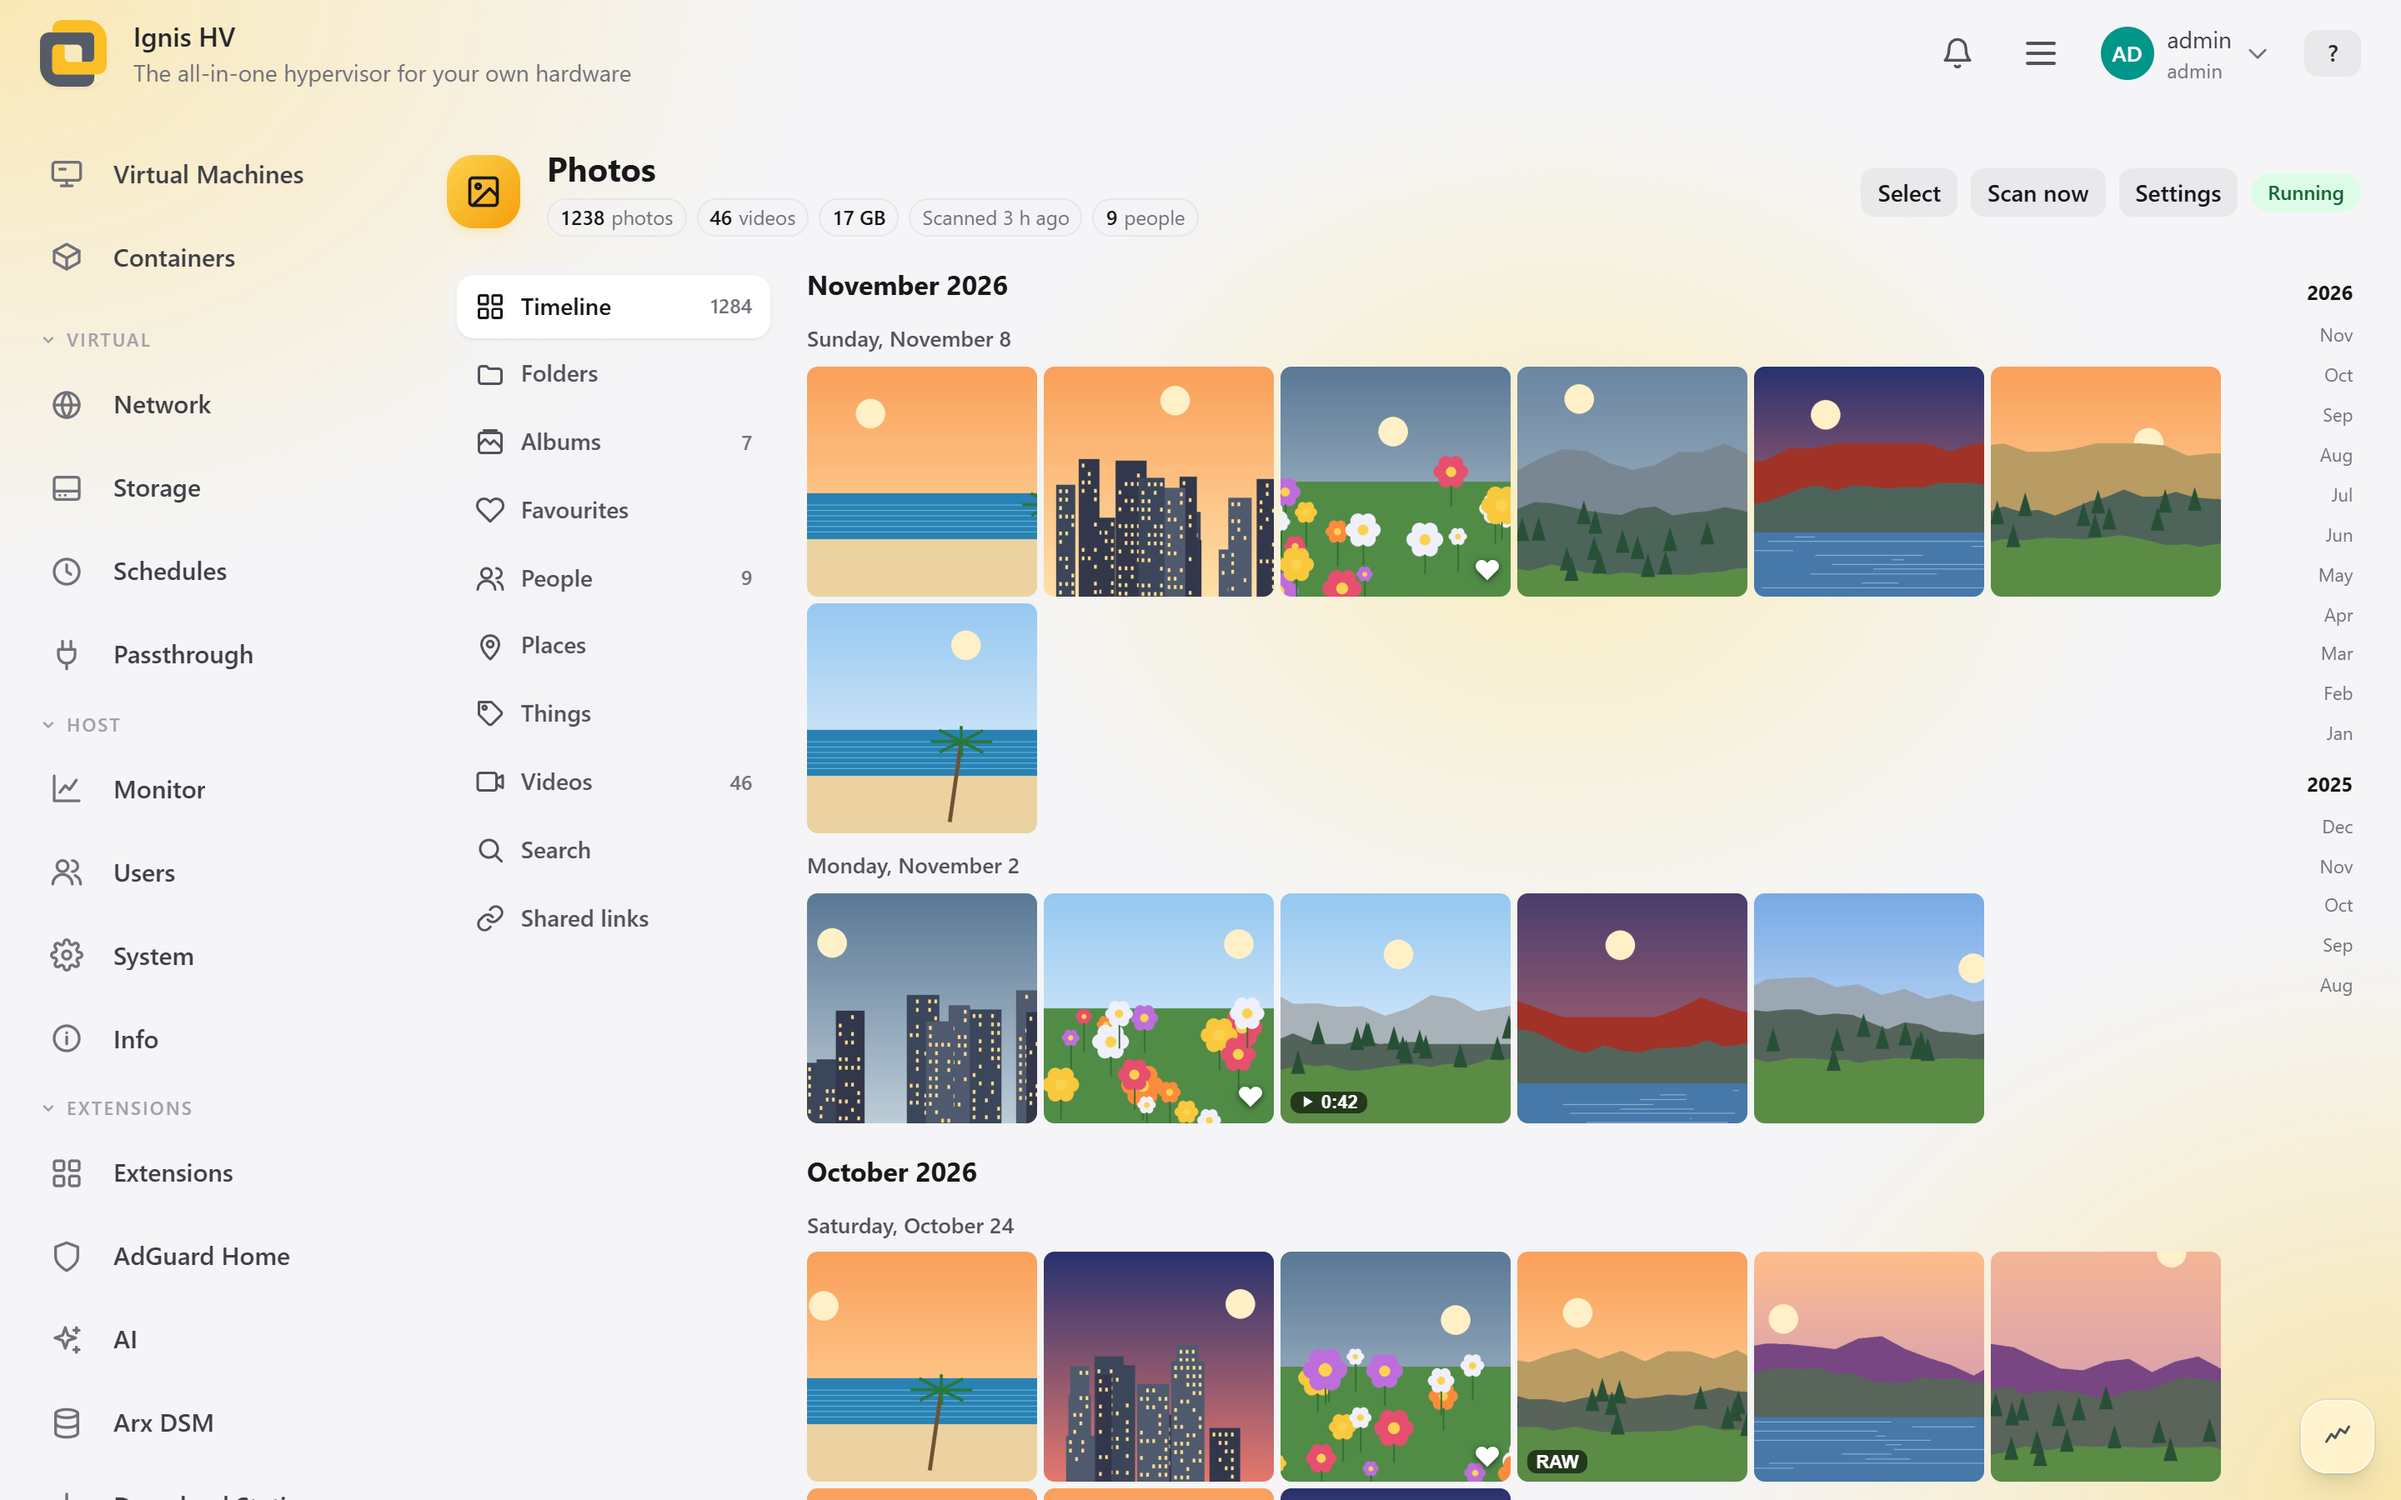
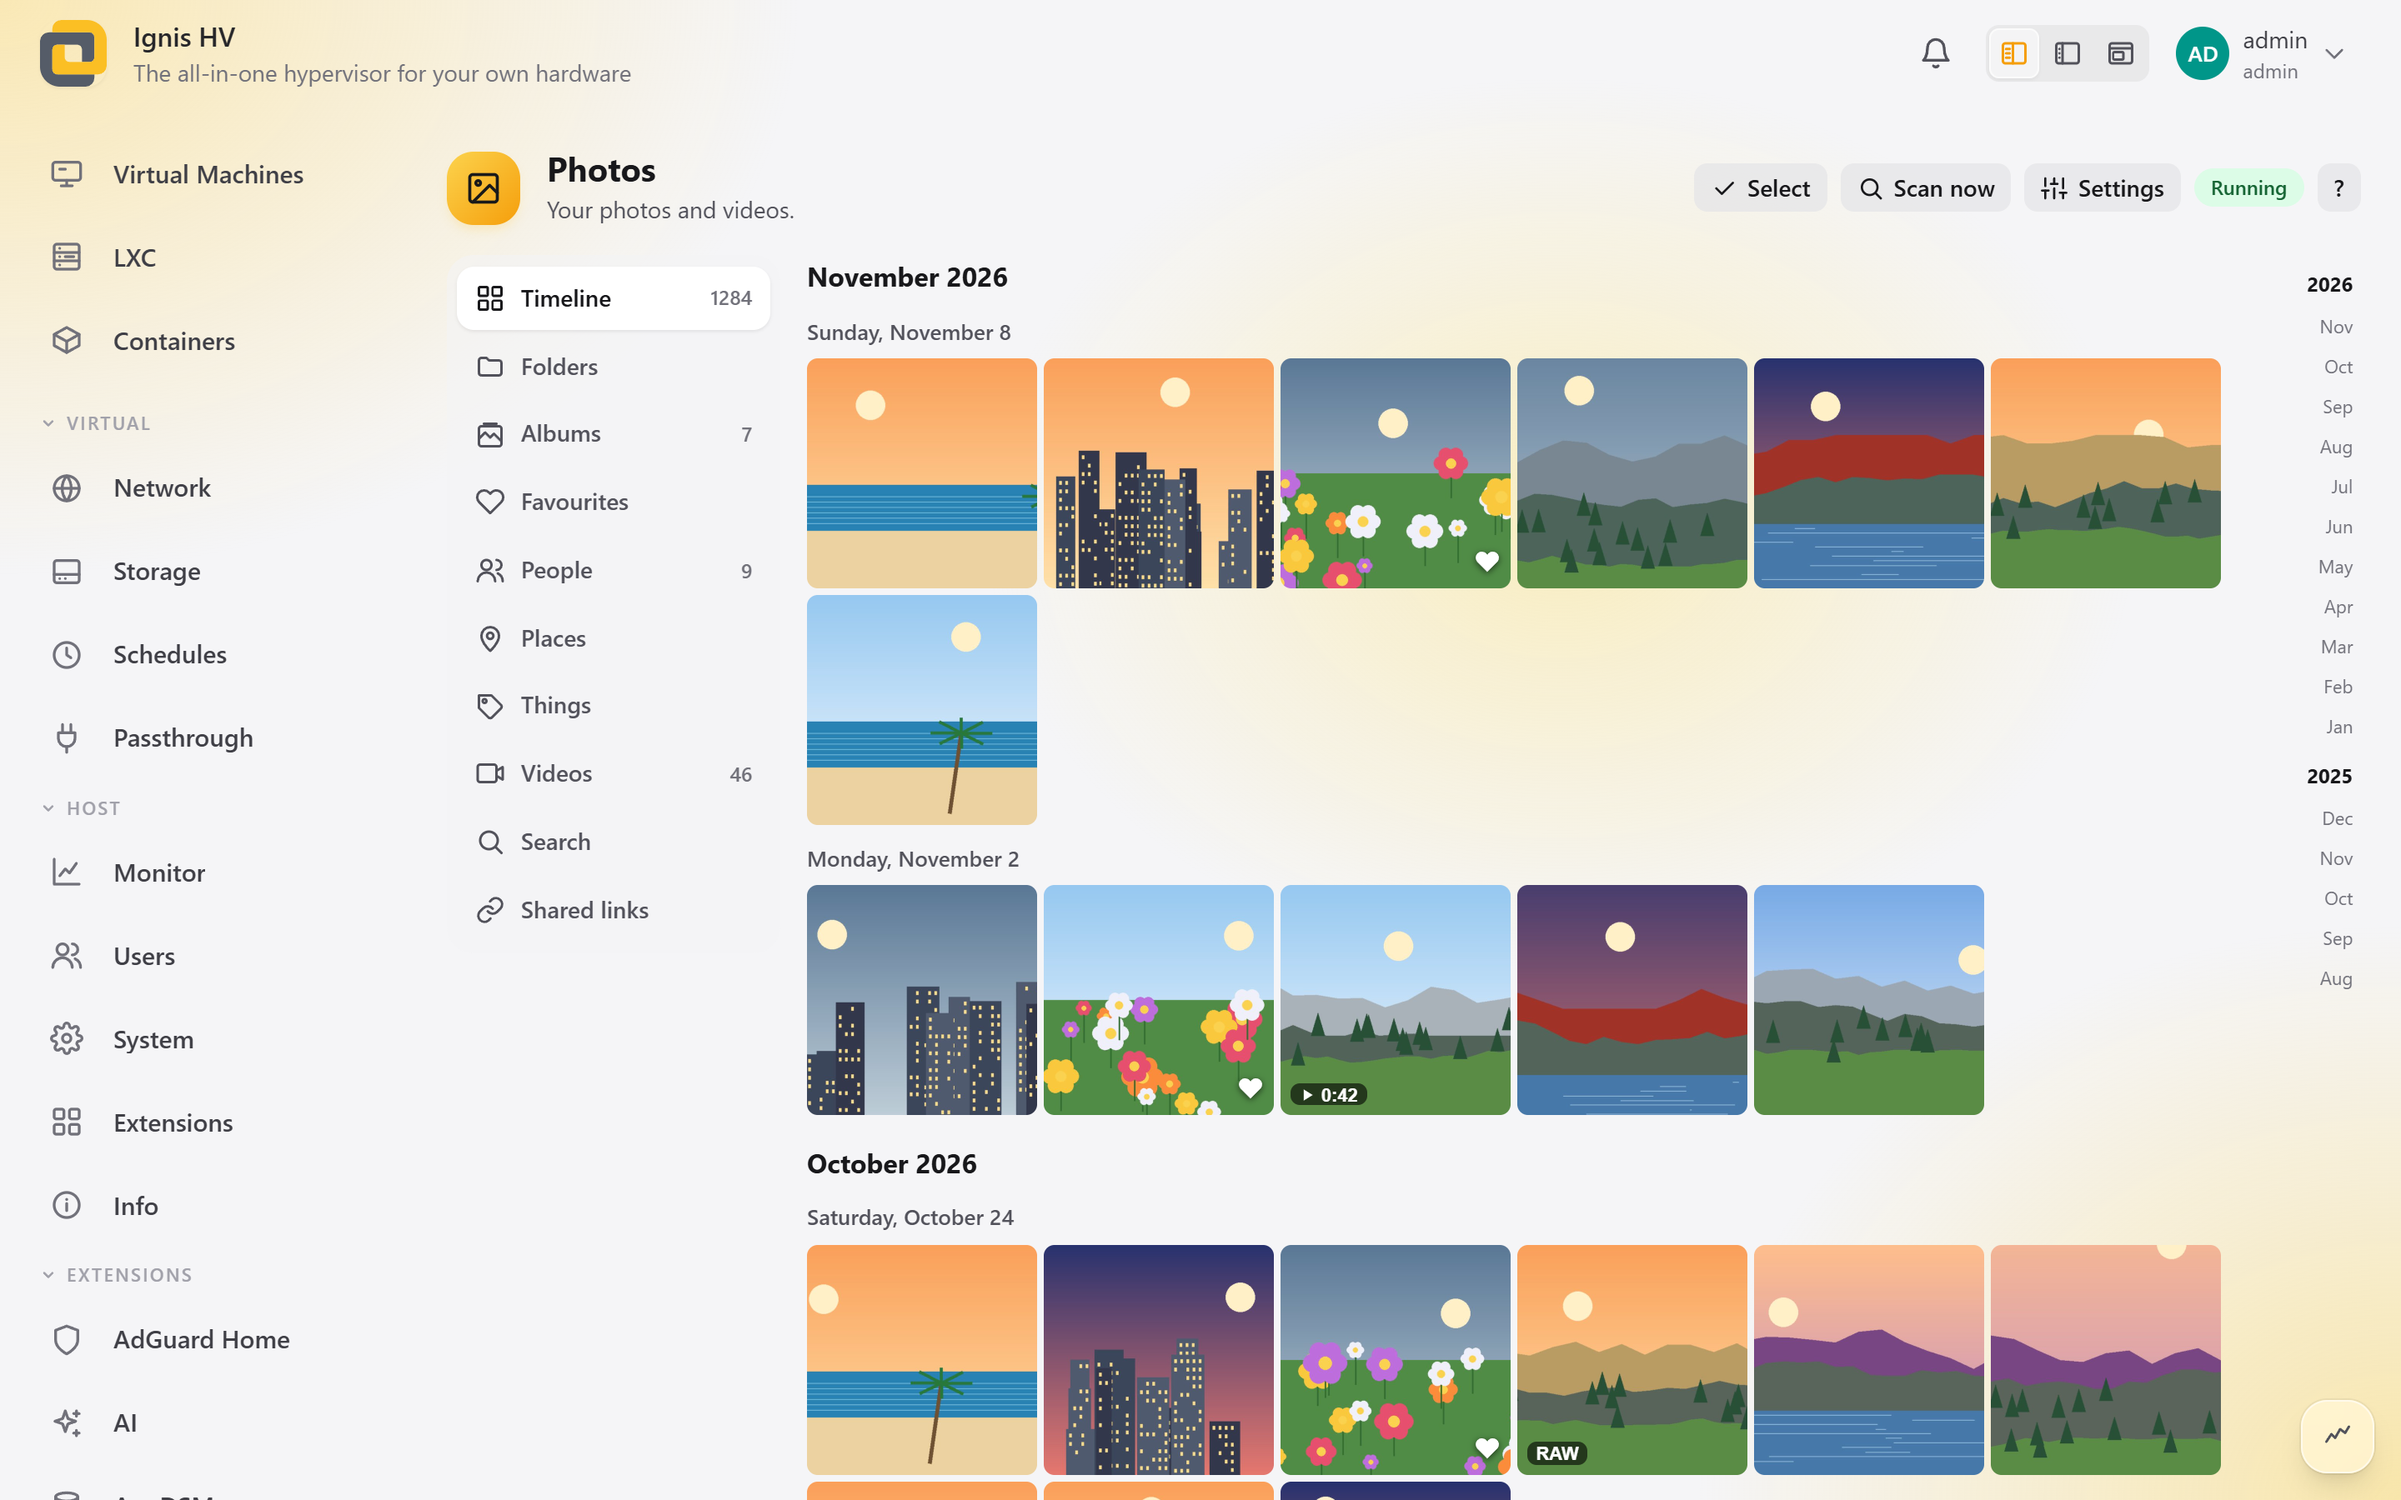
readme: the current interface, and what changed on 2026-11-18
New screenshots of Virtual Machines, Monitor, History, the machine
editor, Containers, Extensions and the desktop, and of Photos, Video
Station, Game Servers, Web Station, its DNS tab, Mail Server and the Web
Browser: buttons that say what they do, switches for settings, the
Monitor's auto-refresh, the new wallpapers.

The text: the Web Browser's tabs and toolbar, the upload size you
choose, the CPU page's governor, turbo and clock limits, wallpapers and
the short confirmation at the bottom of the screen, and that Apply asks
once more and the page reloads by itself once Ignis is back.

diff --git a/README.md b/README.md
@@ -52,7 +52,7 @@ Ignis turns a PC or server into a small, dedicated host for virtual machines, co
 
 * **Disks your way**: the system on one disk or a mirror, your data on one disk or software RAID. Add more disks later as extra volumes
 * **Storage Health**: see disk errors, run disk tests, check your data for hidden damage once a month, and let idle disks spin down
-* **Monitor and History**: what the host and every machine are doing right now, and over the last hour, day, week or month
+* **Monitor and History**: what the host and every machine are doing right now, and over the last hour, day, week or month. Live readings refresh every few seconds, and you can switch that off
 * **Several hosts as one**: link your Ignis hosts and run their machines from one interface. A machine can have a standby copy on a second host, ready if the first one fails
 * **For your smart home**: a read-only interface for Home Assistant, Prometheus and similar apps
 
@@ -87,7 +87,7 @@ Add apps from the **Extensions** tab. Install only the ones you need; each one i
 | **SAN Manager** | Offers storage to other computers over iSCSI |
 | **Game Servers** | Runs servers for Minecraft, Valheim, Factorio and about 145 more games, with a console, backups and timetables. Requires Docker |
 | **AI** | Runs language models on your own GPU, beside online services such as OpenAI, Anthropic and Gemini, all in one chat |
-| **Web Browser** | A browser that runs on Ignis and shows inside the page. Open your router, cameras and other devices on your home network from anywhere, look something up while you work, and save downloads straight to a shared folder. You choose whether it may reach the internet, your home network or both |
+| **Web Browser** | A browser that runs on Ignis and shows inside the page, with tabs and a toolbar like the browser you know. Open your router, cameras and other devices on your home network from anywhere, look something up while you work, and save downloads straight to a shared folder. You choose whether it may reach the internet, your home network or both |
 | **Windows Apps** | Runs Windows programs on Ignis and shows them in your browser, without a Windows licence. Each set of programs gets its own Windows with its own drive C:, and sees only the shared folders you allow, plus a folder of your own that all your programs share |
 | **Android Apps** | Runs Android apps on Ignis and shows them in your browser, each in a window of its own or as a whole Android screen. You choose Android with Google's apps or without. Requires Display Runtime |
 | **Display Runtime** | The screen that Web Browser, Windows Apps and Android Apps run on. Uses your graphics card when one is free. Installed by itself with the apps that need it |
@@ -129,18 +129,18 @@ Ignis keeps two things apart: **the system**, which each update replaces as a wh
 | **LXC** | Linux containers from ready images: start, stop, console, snapshots, backups and clones |
 | **Containers** | Run containers and compose projects, see their logs and usage, update and clean up |
 | **Network** | Networks for your machines, VLANs and bonds |
-| **Storage** | Disk images, ISOs, uploads and extra volumes, shown like a file manager |
+| **Storage** | Disk images, ISOs, uploads and extra volumes, shown like a file manager. You choose how large an upload may be (4 GB unless you change it) |
 | **Schedules** | Timed start, shutdown, snapshot, backup, container and data check tasks, and the tasks your apps offer: website and mail backups, WordPress updates, downloads only at night, cameras on and off, and more |
 | **Passthrough** | Graphics cards, PCI and USB devices your machines can use |
 | **Monitor** | The host right now, its **History** over time, and **Storage Health** |
 | **Users** | Accounts, roles, and who sees which machines and pages |
-| **System** | The host's name, network, time, CPU and fans, linked hosts, the smart home interface, email, services, updates and a terminal |
+| **System** | The host's name, network, time, CPU (governor, turbo and clock limits) and fans, linked hosts, the smart home interface, email, services, updates and a terminal |
 | **Extensions** | Install, update, turn on, restart and remove apps, and see which apps need each other |
 | **Info** | What this host supports, and a report to copy into a bug report |
 
 Every page has a **?** button with help for that page.
 
-Pick the look you like from the account menu: a light or dark mode, an accent colour, and either the classic layout with a sidebar or a **desktop** where every page opens in a window of its own, with a taskbar and wallpapers.
+Pick the look you like from the account menu: a light or dark mode, an accent colour, a wallpaper (northern lights, mountains, waves, dunes and more, or a picture of your own) and either the classic layout with a sidebar or a **desktop** where every page opens in a window of its own, with a taskbar. Settings are switches, and a short note at the bottom of the screen confirms what you saved.
 
 ### 📸 A look inside
 
@@ -190,7 +190,7 @@ Pick the look you like from the account menu: a light or dark mode, an accent co
     <td width="50%"><img alt="Game Servers: a Minecraft server's Add-ons tab with its installed Modrinth plugins" src="assets/screenshots/apps/games-addons.png"><br><sub><b>Game Servers</b>: add mods and plugins from Modrinth, with a console, config files and backups per server</sub></td>
   </tr>
   <tr>
-    <td width="50%"><img alt="Web Browser settings: start page, downloads folder on a share, and switches for the internet and the home network" src="assets/screenshots/apps/browser.png"><br><sub><b>Web Browser</b>: a browser on Ignis, inside the page; you choose what it may reach and where downloads go</sub></td>
+    <td width="50%"><img alt="Web Browser settings: start page, downloads folder, the switches for the internet and the home network, and the screen" src="assets/screenshots/apps/browser.png"><br><sub><b>Web Browser</b>: a browser on Ignis, inside the page, with tabs; you choose what it may reach and where downloads go</sub></td>
     <td width="50%"><img alt="Windows Apps: two bottles, each with its drives and buttons" src="assets/screenshots/apps/winapps.png"><br><sub><b>Windows Apps</b>: Windows programs in your browser, each set in a bottle that sees only the folders you allow</sub></td>
   </tr>
 </table>
@@ -227,7 +227,7 @@ With several disks, every disk can start Ignis, so the machine still boots if on
 
 ## ⬆ Updates
 
-Ignis checks for new releases by itself and tells you through the bell at the top. You install them under **System → Update**: **Download and stage** fetches the new version and checks it, and your machines keep running meanwhile. **Apply** restarts into the new version.
+Ignis checks for new releases by itself and tells you through the bell at the top. You install them under **System → Update**: **Download and stage** fetches the new version and checks it, and your machines keep running meanwhile. **Apply** asks once more and restarts into the new version; the page waits for Ignis to come back and then reloads by itself.
 
 Apps are updated on their own, on the **Extensions** tab.
 
